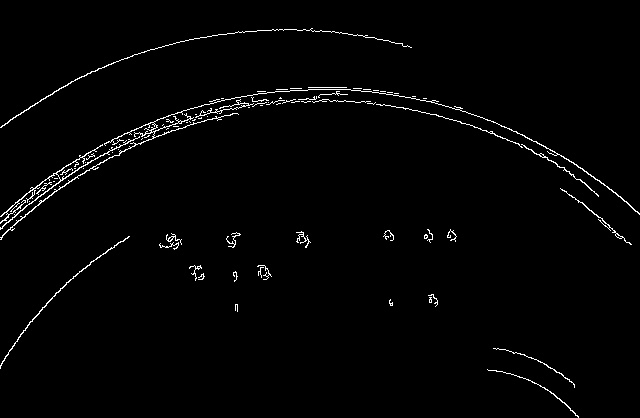
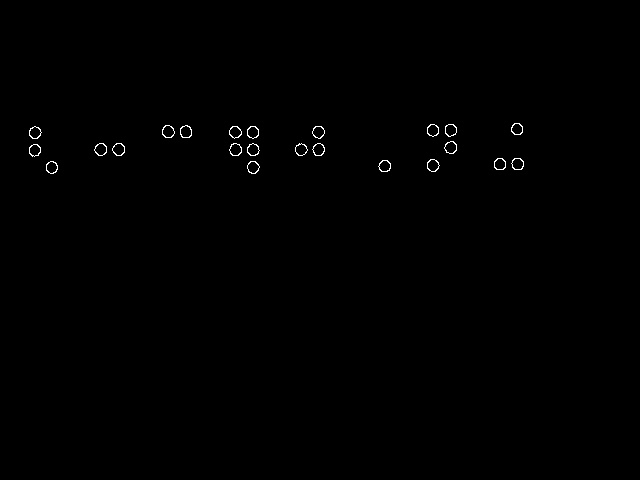
20211125

diff --git a/BTT.py b/BTT.py
@@ -1,92 +1,62 @@
 import cv2
 import numpy as np
+import RPi.GPIO as GPIO
 
-img = cv2.imread("data/dots1.jpg")
-result = img.copy()
-canny = cv2.Canny(img,50,170)
-cv2.imwrite('output/01_canny.jpg',canny)
+GPIO.setmode(GPIO.BCM)
+GPIO.setup(16, GPIO.OUT)  # led pin right line, 3rd from bottom
+GPIO.setup(20, GPIO.IN)   # led pin right line, 2nd from bottom
+GPIO.setup(21, GPIO.IN)   # led pin right line, 1st from bottom
 
+cam = cv2.VideoCapture(0)
 
-contours, hierarchy = cv2.findContours(canny,cv2.RETR_LIST,cv2.CHAIN_APPROX_SIMPLE)
-cv2.drawContours(img,contours,-1,(0,255,0),2)
-select = np.zeros(canny.shape,np.uint8)
-cv2.drawContours(select,contours,-1,(255),2)
-
-cv2.imwrite('output/02_contours.jpg',select)
-
-contours, hierarchy = cv2.findContours(select,cv2.RETR_LIST,cv2.CHAIN_APPROX_SIMPLE)
-select = np.zeros(canny.shape,np.uint8)
-dots = np.zeros(canny.shape,np.uint8)
-
-dot_list = []
-
-for contour in contours :
-    x,y,w,h = cv2.boundingRect(contour)
-    if 3<w<35 and 3<h<35:
-        cv2.drawContours(select,[contour],-1,(255),1)
-        x = int(w*0.5+x)
-        y = int(h*0.5+y)
-        result = cv2.circle(result,(x,y),5,(0,0,255),-1)
-        dots = cv2.circle(dots,(x,y),5,(255),-1)
-        dot_list.append((x,y))
-
-cv2.imwrite('output/03_select.jpg',select)
-
-degree = cv2.minAreaRect(np.array(dot_list))[2]
-if degree>80 :
-    degree = degree-90
-    print(degree)
-    h,w = dots.shape
-    dots = cv2.warpAffine(dots,cv2.getRotationMatrix2D((h/2,w/2),degree,1),(w,h))
-    result = cv2.warpAffine(result,cv2.getRotationMatrix2D((h/2,w/2),degree,1),(w,h))
-elif degree<10 :
-    print(degree)
-    h,w = dots.shape
-    dots = cv2.warpAffine(dots,cv2.getRotationMatrix2D((h/2,w/2),degree,1),(w,h))
-    result = cv2.warpAffine(result,cv2.getRotationMatrix2D((h/2,w/2),degree,1),(w,h))
-else :
-    print(degree)
-
-cv2.imwrite('output/result.jpg',result)
-
-i = 0
-flag = False
-row = []
-while i < dots.shape[0] :
-    if not flag and dots[i].sum() :
-        j = i
-        flag = True
-    elif flag and dots[i].sum() == 0:
-        row.append(int((i+j)*0.5))
-        flag = False
-    i += 1
-
-i = 0
-flag = False
-column = []
-while i < dots.shape[1] :
-    if not flag and dots[:,i].sum() :
-        j = i
-        flag = True
-    elif flag and dots[:,i].sum() == 0:
-        column.append(int((i+j)*0.5))
-        flag = False
-    i += 1
-
-print(row)
-print(column)
-
-dots_line = dots.copy()
-
-for i in row :
-    dots_line[i,:]=255
-    print('row', i)
-for i in column :
-    dots_line[:,i]=255
-    print('col', i)
-
-for i in range(len(row)%3) :
-    r = (row[2] - row[0])*0.5
+flag_power = False
 
 
-cv2.imwrite('output/dots.jpg',dots_line)
+
+
+
+def img_processing(img = np.zeros((480,640,3),np.uint8)) :
+    cv2.imwrite('output/00_frame.jpg',img)
+    
+    img = cv2.Canny(img,50,170)
+    cv2.imwrite('output/01_canny.jpg',img)
+
+    contours, hierarchy = cv2.findContours(img,cv2.RETR_LIST,cv2.CHAIN_APPROX_SIMPLE)
+    img = np.zeros((480,640),np.uint8)
+    cv2.drawContours(img,contours,-1,(255),2)
+    cv2.imwrite('output/02_contours.jpg',img)
+
+
+
+
+
+print("start")
+
+try:
+    while 1:
+        if GPIO.input(21):
+            while GPIO.input(21) : pass
+            flag_power = not flag_power
+            print("power state :",flag_power)
+            cam = cv2.VideoCapture(0)
+            cam.set(cv2.CAP_PROP_FRAME_WIDTH, 640)
+            cam.set(cv2.CAP_PROP_FRAME_HEIGHT, 480)
+
+        if flag_power:
+            GPIO.output(16,1)
+            ret, frame = cam.read()
+            if GPIO.input(20):
+                print("capture")
+                img_processing(frame)
+                while(GPIO.input(20)) : pass
+        else :
+            GPIO.output(16,0)
+            cam.release()
+            if GPIO.input(20) :
+                break
+finally:
+    print("cleanup")
+    cam.release()
+    GPIO.cleanup()
+
+print("end")

diff --git a/BTT_notOPT.py b/BTT_notOPT.py
@@ -1,0 +1,92 @@
+import cv2
+import numpy as np
+
+img = cv2.imread("data/dots1.jpg")
+result = img.copy()
+canny = cv2.Canny(img,50,170)
+cv2.imwrite('output/01_canny.jpg',canny)
+
+
+contours, hierarchy = cv2.findContours(canny,cv2.RETR_LIST,cv2.CHAIN_APPROX_SIMPLE)
+cv2.drawContours(img,contours,-1,(0,255,0),2)
+select = np.zeros(canny.shape,np.uint8)
+cv2.drawContours(select,contours,-1,(255),2)
+
+cv2.imwrite('output/02_contours.jpg',select)
+
+contours, hierarchy = cv2.findContours(select,cv2.RETR_LIST,cv2.CHAIN_APPROX_SIMPLE)
+select = np.zeros(canny.shape,np.uint8)
+dots = np.zeros(canny.shape,np.uint8)
+
+dot_list = []
+
+for contour in contours :
+    x,y,w,h = cv2.boundingRect(contour)
+    if 3<w<35 and 3<h<35:
+        cv2.drawContours(select,[contour],-1,(255),1)
+        x = int(w*0.5+x)
+        y = int(h*0.5+y)
+        result = cv2.circle(result,(x,y),5,(0,0,255),-1)
+        dots = cv2.circle(dots,(x,y),5,(255),-1)
+        dot_list.append((x,y))
+
+cv2.imwrite('output/03_select.jpg',select)
+
+degree = cv2.minAreaRect(np.array(dot_list))[2]
+if degree>80 :
+    degree = degree-90
+    print(degree)
+    h,w = dots.shape
+    dots = cv2.warpAffine(dots,cv2.getRotationMatrix2D((h/2,w/2),degree,1),(w,h))
+    result = cv2.warpAffine(result,cv2.getRotationMatrix2D((h/2,w/2),degree,1),(w,h))
+elif degree<10 :
+    print(degree)
+    h,w = dots.shape
+    dots = cv2.warpAffine(dots,cv2.getRotationMatrix2D((h/2,w/2),degree,1),(w,h))
+    result = cv2.warpAffine(result,cv2.getRotationMatrix2D((h/2,w/2),degree,1),(w,h))
+else :
+    print(degree)
+
+cv2.imwrite('output/result.jpg',result)
+
+i = 0
+flag = False
+row = []
+while i < dots.shape[0] :
+    if not flag and dots[i].sum() :
+        j = i
+        flag = True
+    elif flag and dots[i].sum() == 0:
+        row.append(int((i+j)*0.5))
+        flag = False
+    i += 1
+
+i = 0
+flag = False
+column = []
+while i < dots.shape[1] :
+    if not flag and dots[:,i].sum() :
+        j = i
+        flag = True
+    elif flag and dots[:,i].sum() == 0:
+        column.append(int((i+j)*0.5))
+        flag = False
+    i += 1
+
+print(row)
+print(column)
+
+dots_line = dots.copy()
+
+for i in row :
+    dots_line[i,:]=255
+    print('row', i)
+for i in column :
+    dots_line[:,i]=255
+    print('col', i)
+
+for i in range(len(row)%3) :
+    r = (row[2] - row[0])*0.5
+
+
+cv2.imwrite('output/dots.jpg',dots_line)
